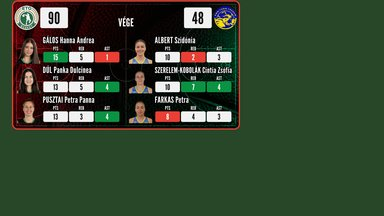
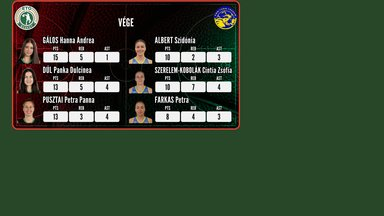
Live three leaders: plain white boxes (no good / bad colouring) and no big scores, the broadcast score bug shows them
Claude-Session: https://claude.ai/code/session_01UoqXCv4cjcXddUm9gUF1QF

diff --git a/graphics/js/templates.js b/graphics/js/templates.js
@@ -650,7 +650,7 @@ const ltRow = n => (n <= 9 ? 64 : 54); // many ticked stats: narrower rows
 const ltScale = n => Math.min(2, 1074 / (LT.head + n * ltRow(n) + LT.pad));
 export const liveTeamSize = keys => { const n = liveTeamKeys(keys).length, S = ltScale(n); return { w: Math.round(LT.w * S), h: Math.round((LT.head + n * ltRow(n) + LT.pad) * S), scale: S }; };
 /** The header shared by the live team comparison and the three leaders: both logos with the live score next to them, the period and the game time left in the middle. */
-function liveHeader(S, x, y, w, op) {
+function liveHeader(S, x, y, w, op, { scores = true } = {}) {
   const u = v => v * S, C = LIVE_TEAM_COLORS;
   const txt = (size, extra) => ({ type: 'text', size: u(size), tracking: 20, color: C.text, opacity: op, adjust: true, align: 'center', ...extra });
   const box = (idv, label, group, bx, by, bw, bh, extra) => ({ id: idv, type: 'framed', label, group, box: [bx + bw / 2, by + bh / 2, bw, bh], fill: C.box, sw: 0, r: u(7), opacity: op, ...extra });
@@ -659,13 +659,15 @@ function liveHeader(S, x, y, w, op) {
   const hy = y + u(22), hh = u(94), sb = u(110), lg = u(96), mid = x + w / 2;
   els.push(
     { id: 'logoH', type: 'image', label: 'Hazai logó', group: 'Fejléc', box: [x + u(58), hy + hh / 2, lg, lg], fit: 'contain', opacity: op, logoOutline: true, maxOutline: 2 },
-    box('scoreH.box', 'Hazai eredmény – doboz', 'Fejléc', x + u(112), hy + u(6), sb, hh - u(12)),
-    txt(66, { id: 'scoreH', label: 'Hazai eredmény', group: 'Fejléc', x: x + u(112) + sb / 2, y: hy + hh / 2 + 0.3715 * u(66), color: C.digit, maxWidth: sb - u(10), minScale: 0.6 }),
     txt(24, { id: 'clock', label: 'Negyed', group: 'Fejléc', x: mid, y: hy + hh / 2 - u(8), maxWidth: u(110), minScale: 0.6 }),
     txt(44, { id: 'time', label: 'Játékidő', group: 'Fejléc', x: mid, y: hy + hh / 2 + u(34), maxWidth: u(110), minScale: 0.6 }),
+    { id: 'logoA', type: 'image', label: 'Vendég logó', group: 'Fejléc', box: [x + w - u(58), hy + hh / 2, lg, lg], fit: 'contain', opacity: op, logoOutline: true, maxOutline: 2 },
+  );
+  if (scores) els.push(
+    box('scoreH.box', 'Hazai eredmény – doboz', 'Fejléc', x + u(112), hy + u(6), sb, hh - u(12)),
+    txt(66, { id: 'scoreH', label: 'Hazai eredmény', group: 'Fejléc', x: x + u(112) + sb / 2, y: hy + hh / 2 + 0.3715 * u(66), color: C.digit, maxWidth: sb - u(10), minScale: 0.6 }),
     box('scoreA.box', 'Vendég eredmény – doboz', 'Fejléc', x + w - u(112) - sb, hy + u(6), sb, hh - u(12)),
     txt(66, { id: 'scoreA', label: 'Vendég eredmény', group: 'Fejléc', x: x + w - u(112) - sb / 2, y: hy + hh / 2 + 0.3715 * u(66), color: C.digit, maxWidth: sb - u(10), minScale: 0.6 }),
-    { id: 'logoA', type: 'image', label: 'Vendég logó', group: 'Fejléc', box: [x + w - u(58), hy + hh / 2, lg, lg], fit: 'contain', opacity: op, logoOutline: true, maxOutline: 2 },
   );
   return els;
 }
@@ -709,7 +711,7 @@ function liveLeaderTpl(id, league, keysIn) {
   const cells = liveLeaderCells(keysIn), { w, h, scale: S } = liveLeaderSize(), x = 60, y = 2, C = LIVE_TEAM_COLORS, op = 0.9882, u = v => v * S;
   const txt = (size, extra) => ({ type: 'text', size: u(size), tracking: 20, color: C.text, opacity: op, adjust: true, align: 'center', ...extra });
   const box = (idv, label, group, bx, by, bw, bh) => ({ id: idv, type: 'framed', label, group, box: [bx + bw / 2, by + bh / 2, bw, bh], fill: C.box, sw: 0, r: u(6), opacity: op });
-  const els = [panelFrame(league, x, y, w, h), ...liveHeader(S, x, y, w, op)];
+  const els = [panelFrame(league, x, y, w, h), ...liveHeader(S, x, y, w, op, { scores: false })]; // no big scores here: the broadcast's own score bug shows them (owner 2026-11-25)
   for (const [side, tag, col] of [['home', 'h', 0], ['away', 'a', 1]]) {
     const x0 = x + u(LL.pad) + col * u(LL.cw + LL.gap);
     for (let i = 0; i < 3; i++) {

diff --git a/graphics/js/binders.js b/graphics/js/binders.js
@@ -695,34 +695,21 @@ export function bindLiveTeam(store, lg, game, sel = {}) {
 }
 
 // ───────────────────────── live three leaders (Élő három vezető) ─────────────────────────
-/** The value a stat is compared by (higher = better, except for the stats in LOW): null when there is nothing to compare. */
-const LEADER_LOW = new Set(['tov', 'pf']);
-const leaderNum = (p, key) => {
-  const st = p.stat, pct = (m, a) => (a > 0 ? m / a : null);
-  switch (key) {
-    case 'pts': return st.pts; case 'reb': return p.reb; case 'ast': return st.ast; case 'stl': return st.stl; case 'blk': return st.blk; case 'tov': return st.tov; case 'pf': return st.pf; case 'eff': return p.eff;
-    case 'min': return p.seconds ?? null;
-    case 'fg': return pct(st.fg2m + st.fg3m, st.fg2a + st.fg3a); case 'fg2': return pct(st.fg2m, st.fg2a); case 'fg3': return pct(st.fg3m, st.fg3a); case 'ft': return pct(st.ftm, st.fta);
-    default: return null;
-  }
-};
 export function bindLiveLeaders(store, lg, game, sel = {}, photoIds = new Set()) {
   const v = liveHeaderValues(store, lg, game, sel);
+  delete v.scoreH; delete v.scoreA; // the broadcast's own score bug shows the score (owner 2026-11-25)
   if (!game) return v;
   const src = LIVE_SRC + (sel.fetchedAt ? ` – frissítve: ${sel.fetchedAt}` : ''), cells = liveLeaderCells(sel.leaderStats), S = liveLeaderSize().scale, big = 32 * S, small = Math.round(big * 2 / 3 * 100) / 100;
   const sides = { home: topByEff(game, 'home', 3), away: topByEff(game, 'away', 3) }, tids = {};
   for (const side of ['home', 'away']) tids[side] = clubIdStrict(lg, game.teams[side].short) || clubIdStrict(lg, game.teams[side].name) || null;
   const all = [...sides.home.map((p, i) => ({ p, i, side: 'home' })), ...sides.away.map((p, i) => ({ p, i, side: 'away' }))];
-  cells.forEach((c, j) => { // best / worst of the (up to) six shown players, per ticked stat
-    const nums = all.map(a => leaderNum(a.p, c.key)).filter(n => n !== null), best = LEADER_LOW.has(c.key) ? Math.min(...nums) : Math.max(...nums), worst = LEADER_LOW.has(c.key) ? Math.max(...nums) : Math.min(...nums), mark = nums.length >= 2 && best !== worst;
+  cells.forEach((c, j) => { // plain white boxes: no good / bad colouring (best of six players is not a meaningful judgement here, owner 2026-11-25)
     for (const side of ['home', 'away']) for (let i = 0; i < 3; i++) {
       const id = `${side === 'home' ? 'h' : 'a'}${i}`, p = sides[side][i];
       v[`${id}.c${j}.label`] = { text: p ? c.label : '', source: 'Fix felirat (átírható)' };
       if (!p) { v[`${id}.c${j}.value`] = { text: '', source: 'Nincs ennyi pályára lépett játékos' }; v[`${id}.c${j}.box`] = { fill: '', source: '' }; continue; }
-      const [value, pct] = liveCellFns(p)[c.key](), n = leaderNum(p, c.key), tag = !mark || n === null ? null : n === best ? 'best' : n === worst ? 'worst' : null;
-      const f = field(value, `${src} – ${c.label}`), t = pct ? ` (${pct})` : '';
-      v[`${id}.c${j}.value`] = { ...(c.shoot && value && pct ? { ...f, text: value + t, runs: [{ text: value }, { text: t, size: small, dy: -(big - small) * 0.3715 }] } : f), color: tag ? '#ffffff' : LIVE_TEAM_COLORS.digit };
-      v[`${id}.c${j}.box`] = { fill: tag === 'best' ? LIVE_TEAM_COLORS.better : tag === 'worst' ? LIVE_TEAM_COLORS.worse : LIVE_TEAM_COLORS.box, source: 'A hat játékos közül a legjobb zöld, a legrosszabb piros' };
+      const [value, pct] = liveCellFns(p)[c.key](), f = field(value, `${src} – ${c.label}`), t = pct ? ` (${pct})` : '';
+      v[`${id}.c${j}.value`] = c.shoot && value && pct ? { ...f, text: value + t, runs: [{ text: value }, { text: t, size: small, dy: -(big - small) * 0.3715 }] } : f;
     }
   });
   for (const side of ['home', 'away']) for (let i = 0; i < 3; i++) {

diff --git a/MANIFEST.md b/MANIFEST.md
@@ -49,7 +49,7 @@ Status legend: **LOCKED** = agreed & finished · **REVIEW** = delivered, waiting
 | Következik | REVIEW | |
 | Élő statisztika (játékos) (livestat) | REVIEW | **new 2026-11-23, reshaped 2026-11-24 per owner (height version B chosen): a strip 606×150 (shooting 606×140, full row 1032×130), photo left, name centred over the figures, club logo 100 px at the right end, white name / labels and gold figures, no status line; centred in the gap left of the score bug (x 600 for ETO/Falco = large bug, x 712 for all others), level with its midline, or top-left on request:** compact court-frame panel: official roster photo, name (Hungarian "SURNAME Given" / foreign "Given SURNAME" from the Hunbasket roster), `#number · score · period`, club logo, and stats of the chosen live-game player; variants **Alap** (PTS·REB·AST), **Dobások** (2P·3P·BT with %), **Teljes sor** (PERC·PTS·REB·AST·STL·BLK·TOV·FAULT·EFF). Data = live boxscore (section 5b); loaded by link/code (auto refresh 5 s via the local relay) or pasted; every value carries the freshness in its source label; nothing is invented. Not in the ZIP package (it is a live insert). |
 | Élő statisztika (csapat-összevetés) (liveteam) | REVIEW | **new 2026-11-24:** look of the broadcaster's score bug, logos + scores, ticked stats, better value green, worse red; see 5b and DESIGN-SYSTEM. |
-| Élő statisztika (három vezető) (liveleaders) | REVIEW | **new 2026-11-25 (owner: "I will decide how I like it when you are finished"):** the three best-VAL players of each team (VAL only picks them, it is not shown unless ticked, then like any other stat), photo + name + ticked stats in white boxes, best of the six green / worst red; header and frame as the team comparison; see 5b. |
+| Élő statisztika (három vezető) (liveleaders) | REVIEW | **new 2026-11-25 (owner: "I will decide how I like it when you are finished"):** the three best-VAL players of each team (VAL only picks them, it is not shown unless ticked, then like any other stat), photo + name + ticked stats in plain white boxes (no good / bad colouring and no big scores: owner 2026-11-25, the broadcast's score bug shows the score); logos + period / time header and frame as the team comparison; see 5b. |
 | Vezetőedző nyilatkozata (coach) | REVIEW | **new 2026-11-24:** from the owner's PSD "Hegedűs ITW BEAC előtt - 0924" (women; men = same layout, men's outline colour): large court frame, coach photo upload (cut-out, background removal), **quote** typed / pasted (small caps like the PSD **or** plain capitals, selectable; shrinks to fit 13+ lines), name + club logo from the Hunbasket head coach, subtitle suggestion from the next game, Hunbasket · Tippmix · Play by Play strip. Text engine: `graphics/js/paragraph.js` (`paragraph` text elements: paragraphs wrapped on their own, small caps, fit to height). Not in the ZIP package (needs a photo + text). |
 | Játékvezetők | REVIEW | men's PSD uses Satoshi, but the font rule is League Gothic only (owner's decision: everything in League Gothic) – rendered in League Gothic |
 
@@ -84,7 +84,7 @@ Goal: during timeouts / quarter breaks pick a player of the running game and sho
 - **Source:** the MKOSZ netcasting page `https://netcasting4.webpont.com/?whun_<id>` (`whun_` = women, `hun_` = men, `hunu18_` etc. = junior games; verified 2026-11-24 on a live U19 game: the feed parses, the points match the score; junior clubs/players are not in the Hunbasket NB I/A data, so no logo/photo and the feed's own name spelling, e.g. "Gerg?" for Gergő – a quirk of the feed itself). It loads `storage/full<gamecode>.html` (whole game) / `storage/last<gamecode>.html` (latest events), refreshed about every 5 s. Format: home-made `key|value#key|value` text, `%` between array items; three string replaces turn it into JSON (`graphics/js/live.js` `decodeFeed`). Contains roster (`players.home/away`: Hunbasket player code, name, number, photo URL), `i` (teams, score `hp`/`vp`, arena, referees, date) and the play-by-play `f` (codes: 1000 made shot, 1001 miss, 1002 def reb, 1003 off reb, 1004 steal, 1005 turnover, 1006 foul drawn, 1007 foul, 1008 assist, 1009 block, 1010 block against, 1020 technical, 1011 substitution, 1100 15 s tick, 1101 period end; `gt` = elapsed game seconds). Shot type 3 = three, 4 = free throw, 1/2/5 = two. **Player codes are Hunbasket player ids**, so `graphics/players/<id>.webp` fits directly.
 - **Parser:** `graphics/js/live.js` (counts the stats like the netcasting page; counted points equal the official score), tests `tests/live.test.mjs` on a saved finished game (`tests/fixtures/live/whun_135563.full.txt`, ETO Basket – CEKK Cegléd 90–48).
 - **Access:** the feed server sends **no CORS header** (a browser on GitHub Pages cannot read it) and **blocks cloud networks**: a Supabase Edge Function was tried and cannot reach it (IPv6 reset, IPv4 port 443 dropped, port 80 only redirects) – do not retry that route (the two stub functions `live-box` / `live-diag` in the Supabase project can be deleted in its dashboard). **Working route:** `python3 tools/serve.py` serves the studio and relays the feed at `/live?game=whun_135563&kind=full` (the owner's own connection is accepted). The sandbox reaches the feed only through the allowed host `netcasting4.webpont.com` of the environment.
-- **Built:** the graphic `livestat-<men|women>` (see section 3). **Tickable stats (2026-11-24, owner request):** the commentator ticks the stats (`LIVE_STATS` in templates.js: PERC PTS REB AST STL BLK TOV FAULT EFF FG 2P 3P BT; state `sel.live.stats`; the old basic/shooting/full sets are presets), strip width/fonts follow the count (`liveDims`, max 1040 px); shooting cells show `made/att (xx%)`, percentage at 2/3 size, vertically centred (runs, dy = -(big-small)·0.3715). **Team comparison `liveteam-<men|women>` (built 2026-11-24, REVIEW; owner round 2: ≈2x bigger via scale S = min(2, 1074/height), columns and scores closer to the middle, top-left like Csapatok összevetése, no dark strips, period + time left in the header, VÉGE only when finished):** look of the broadcaster's own score bug (owner's screenshots of the feed, NOT the netcasting web page): dark glossy bar, logos + white score boxes, period label, one row per ticked stat with white value boxes straight on the court (no dark strips), the better value green / the worse red (lower is better for TOV / FAULT); stats `LIVE_TEAM_STATS` (FG 2P 3P BT REB TÁMADÓ REB AST STL BLK TOV FAULT EFF), state `sel.live.teamStats`; `live.js` now also returns `quarters` (points per period, sum = score), `foulsByPeriod`, team `reb` / `eff`. **Three leaders `liveleaders-<men|women>` (built 2026-11-25, REVIEW):** `topByEff` in live.js picks the three best VAL per side; default stats PTS REB AST, all `LIVE_STATS` tickable (state `sel.live.leaderStats`), VAL never the headline; the layout (two columns, photo left, label over a white box) is a first guess the owner will judge. Open ideas: OBS browser-source page that refreshes by itself, team-level insert (team fouls, quarter scores), own photo upload per player. Coach interview graphic (owner will add a PSD prototype): data from Hunbasket preview links / BB1 (`bball1.hu`) preview article, always a photo upload.
+- **Built:** the graphic `livestat-<men|women>` (see section 3). **Tickable stats (2026-11-24, owner request):** the commentator ticks the stats (`LIVE_STATS` in templates.js: PERC PTS REB AST STL BLK TOV FAULT EFF FG 2P 3P BT; state `sel.live.stats`; the old basic/shooting/full sets are presets), strip width/fonts follow the count (`liveDims`, max 1040 px); shooting cells show `made/att (xx%)`, percentage at 2/3 size, vertically centred (runs, dy = -(big-small)·0.3715). **Team comparison `liveteam-<men|women>` (built 2026-11-24, REVIEW; owner round 2: ≈2x bigger via scale S = min(2, 1074/height), columns and scores closer to the middle, top-left like Csapatok összevetése, no dark strips, period + time left in the header, VÉGE only when finished):** look of the broadcaster's own score bug (owner's screenshots of the feed, NOT the netcasting web page): dark glossy bar, logos + white score boxes, period label, one row per ticked stat with white value boxes straight on the court (no dark strips), the better value green / the worse red (lower is better for TOV / FAULT); stats `LIVE_TEAM_STATS` (FG 2P 3P BT REB TÁMADÓ REB AST STL BLK TOV FAULT EFF), state `sel.live.teamStats`; `live.js` now also returns `quarters` (points per period, sum = score), `foulsByPeriod`, team `reb` / `eff`. **Three leaders `liveleaders-<men|women>` (built 2026-11-25, REVIEW):** `topByEff` in live.js picks the three best VAL per side; default stats PTS REB AST, all `LIVE_STATS` tickable (state `sel.live.leaderStats`), VAL never the headline; the layout (two columns, photo left, label over a white box) is a first guess the owner will judge. Owner 2026-11-25: no green / red here and no big scores (if scores come back: in the middle of the three-player rows on each side). Open ideas: OBS browser-source page that refreshes by itself, team-level insert (team fouls, quarter scores), own photo upload per player. Coach interview graphic (owner will add a PSD prototype): data from Hunbasket preview links / BB1 (`bball1.hu`) preview article, always a photo upload.
 
 ## 5c. Coach interview graphic (built 2026-11-24)
 Built from `BROADCAST GRAPHICS/Hegedűs ITW BEAC előtt - 0924.psd` (read-only; do not run `tools/psd_extract.py` without `--only <id>`): geometry and type in `templates.js` (`coachTpl`), text layout in `paragraph.js` + `drawParagraph` in `engine.js`, binder `bindCoach`, studio panel in `app.js` (team, opponent for the subtitle, quote textarea, look, photo upload + background removal). Owner decisions: **both quote looks** (small caps / plain capitals) and **both leagues**. A render with the PSD's own text, photo and a Hunbasket name matches the PSD (same 13 lines, same positions).

diff --git a/DESIGN-SYSTEM.md b/DESIGN-SYSTEM.md
@@ -32,7 +32,7 @@ Text outlines: 3–4 px (PSD stroke), club logos carry the white outline stored 
 - **Broadcast score bug zone (LOCKED, owner 2026-11-24):** the live feed we commentate on carries the broadcaster's score bug in the **bottom-right** corner, in two versions: the **large** one (x 1213–1887 / y 931–1045, 115 px tall, with the credit line below it ≈ 139 px together) is used on the broadcasts of **ETO Basket and Falco only** – the difference is the **origin of the feed** (they produce with hand cameras, everyone else with the automated production), not the venue – every other partner has the **small** one (x 1425–1874 / y 958–1034, 77 px tall, with the credit line below it down to ≈ 1051 = ≈ 93 px together). Our graphics must not cover it: keep-out zones `BUG.large` x ≥ 1200, y ≥ 925 and `BUG.small` x ≥ 1410, y ≥ 945 (`templates.js`; the large zone contains the small one, so it is used when the host is unknown). The studio picks the size from the host club of the chosen match / live game (setting *Eredményjelző*: automatikus / nagy / kicsi / nincs) and **fits every graphic out of the zone automatically** (`safeFit` in `layout.js`, applied by the engine through the global transform): the smallest visual change wins – shift up, shift left, or a slight shrink about the panel's top-left corner (currently ≤ 6.7 %, most graphics ≤ 2.5 % or untouched). The preview can show the zone as a hatched guide (never exported). Graphics that do not reach the zone (roster, team statistics, form, head to head, …) are not changed.
 - **Live player insert (strip, owner 2026-11-24, height version "B"):** basic 606 × 150 px, shooting 606 × 140, full row 1032 × 130; court frame with 3 px outline. Left to right: official roster photo (120 px column), the **name** (surname in capitals) **centred on the middle of the figures row** with the figures and their category labels under it, and the **club logo (100 px)** centred in the right column. **Colours:** name and category labels share one colour (white `#ffffff`), the numbers are **gold `#ffc929`** (`LIVE_COLORS`); all with a black outline. **No status line under the name** (the broadcast's own score bug shows score and period). Placement: on the score bug's level and centred in the gap between the left edge of the picture and the score bug: **x-centre 600 on ETO Basket / Falco broadcasts (large bug), x-centre 712 everywhere else (small bug)**, y-centre ≈ 988 / 995 (kept 20 px inside the picture, so about 985 for the 150 px strip); alternative: top-left. Height can not simply be doubled: centred on the small bug's midline (995) a strip taller than ≈ 130 px would leave the picture.
 - **Live team comparison (`liveteam`, owner 2026-11-24, REVIEW):** copies the broadcaster's score bug (screenshots of the feed): the standard court frame (PlayByPlay red-black-green court + league outline, as all panels) with no strips: the court shows between the value boxes, value / score boxes `#f4f4f4` with near-black digits (radius 7), the better value's box green `#0b9444`, the worse red `#ec4036` (white digits; a tie stays white), white captions; base layout 560 px wide (columns and the two score boxes close to the middle), header 138 px (logos 96, score boxes 110), rows 64 px (54 above 9 stats), then everything scaled by S = min(2, 1074 / height): about 2x for up to 6 stats, so the panel is ≈ 1100 px wide and ends clear of both score bug zones; placed top-left like *Csapatok összevetése* (x 60, y 2); the middle of the header shows the period and the game time left ("2. NEGYED / 4:32"), "VÉGE" only when the game is over; shooting values `made/att (xx%)` with the percentage at 2/3 size, vertically centred. League Gothic only.
-- **Live three leaders (`liveleaders`, 2026-11-25, REVIEW, first version – the owner decides the look):** court frame + the header of the team comparison; two columns (home | away), three rows each (best VAL first): official photo (92 base px), name (white, black outline), under it the ticked stats as a small white label over a white value box (digits black; the best value of the six players in the green `#0b9444` box, the worst in red `#ec4036`, white digits); shooting stats `made/att (xx%)` with the percentage at 2/3 size. VAL only chooses the players; as a stat it is the same size as the others. Base 904 px wide, scaled to ≤ 1140 px so it ends clear of the large score bug zone.
+- **Live three leaders (`liveleaders`, 2026-11-25, REVIEW, first version – the owner decides the look):** court frame + a header with the two club logos in the top corners and the period / game time in the middle (the team comparison's header without the score boxes); two columns (home | away), three rows each (best VAL first): official photo (92 base px), name (white, black outline), under it the ticked stats as a small white label over a white value box (digits black; all boxes plain white: no green / red and no big scores, the broadcast's score bug shows the score); shooting stats `made/att (xx%)` with the percentage at 2/3 size. VAL only chooses the players; as a stat it is the same size as the others. Base 904 px wide, scaled to ≤ 1140 px so it ends clear of the large score bug zone.
 - **Coach interview graphic (owner's PSD "Hegedűs ITW BEAC előtt - 0924", built 2026-11-24):** large court frame (45,14–1455,944, stroke 8 px, radius 25, outline colour per league); the coach's cut-out photo on the left (570 × 895 box, standing on the frame's bottom edge, always an upload); the **quote** on the right (League Gothic 45.8 px, squeezed to 83 % width exactly like the PSD's 1.786 × 2.142 stretch, 58.3 px line spacing, tracking 10, white with a 4 px black outline, 963 px wide, up to 13 lines – longer text **shrinks to fit**, down to 45 %); **small caps** (lower-case letters as capitals at 80 %, as in the PSD) or plain capitals, selectable; the **name** in capitals (108 px, black `#010101` with a 4 px **white** outline, baseline 873.25), the subtitle in capitals (45.8 px, white, 3 px black outline, baseline 927), the club logo (124 px) bottom right, and the Hunbasket · Tippmix · **Play by Play** strip under the frame (`templates/coach/strip.png`, taken from the PSD). Name and logo come from the Hunbasket team page (head coach), the subtitle is a suggestion from the next game ("<ellenfél> elleni mérkőzés előtt"), the quote is typed / pasted. Fitted out of the score bug zone like every big graphic.
 - **Player cards (photo roster):** photo, jersey number top-left, flag top-right on the number's centre line, surname in capitals, position · height line in red; name order rule in MANIFEST.md.
 - **Key players:** values and ranks mirrored around the label column, rank rows on the value baseline, photo (or club logo) behind the numbers.

diff --git a/graphics/README.md b/graphics/README.md
@@ -236,4 +236,4 @@ A logósor (Hunbasket · Tippmix · Play by Play) fix, a PSD-ből.
 Az adás saját eredményjelzőjének (a sötét, fényes sáv, fehér pontdobozokkal) stílusában: felül a **két csapat logója** és mellettük a **fehér dobozban az állás**, középen a **negyed és a hátralévő játékidő** („2. NEGYED / 4:32”; **VÉGE** csak a lefújt meccsnél – az idő az utolsó esemény ideje, néhány másodperc késés lehet), alatta **soronként egy pipálható statisztika (közvetlenül a pályán, sötét sáv nélkül)**: bal oldalon a hazai, jobb oldalon a vendég értéke fehér dobozban, középen a név. A **jobb érték zöld, a rosszabb piros** dobozt kap, fehér számokkal (egyenlőnél fehér marad; az eladott labdánál és a faultnál a kevesebb a jobb). A dobásoknál (FG, 2P, 3P, BT) *betalált/kísérlet* áll nagyban, zárójelben a százalék a 2/3-os méretben, függőlegesen középen. Pipálható: FG, 2P, 3P, BT, REB, TÁMADÓ REB, AST, STL, BLK, TOV, FAULT, EFF (csapat-EFF: a játékosok és a csapatnak írt lepattanók / eladott labdák összege). A grafika kb. **kétszer akkora**, mint az első változat (legfeljebb 6 statisztikánál; több pipánál a sorok összébb húzódnak, hogy beférjen a képbe), az oszlopok és az eredmények közel vannak a középhez. Ugyanaz az élő meccs-kód és az Automatikus frissítés, mint a játékos-sávnál; a panel ugyanott áll, ahol a **Csapatok összevetése** (bal felül), így nem takarja az eredményjelzőt.
 
 ## Élő statisztika (három vezető)
-Mindkét csapatból **a három legjobb VAL-értékű játékos** jelenik meg (a VAL csak a kiválasztás szabálya, **nem a főszám**; ha kipipálod, ugyanakkora, mint a többi statisztika). Fejléc és keret ugyanaz, mint a csapat-összevetésnél (logók, élő állás, negyed és hátralévő idő). Bal oldalon a hazai, jobb oldalon a vendég csapat három játékosa, soronként: a hivatalos fotó, a név, alatta a **pipált statisztikák** felirattal és fehér értékdobozzal (alapból PTS · REB · AST; pipálható: PERC, PTS, REB, AST, STL, BLK, TOV, FAULT, EFF, FG, 2P, 3P, BT). A hat játékos közül statisztikánként a **legjobb érték zöld, a legrosszabb piros** (eladott labdánál és faultnál a kevesebb a jobb). A dobásoknál *betalált/kísérlet (százalék)*, a százalék 2/3 méretben. Ugyanaz a meccs-kód és az Automatikus frissítés, mint a többi élő grafikánál. Ez az első változat: a végleges kinézetet te döntöd el.
+Mindkét csapatból **a három legjobb VAL-értékű játékos** jelenik meg (a VAL csak a kiválasztás szabálya, **nem a főszám**; ha kipipálod, ugyanakkora, mint a többi statisztika). A keret ugyanaz, mint a csapat-összevetésnél; a fejlécben a két csapat logója és középen a negyed / hátralévő idő áll, **nagy eredmény nincs** (az adás saját eredményjelzője mutatja). Bal oldalon a hazai, jobb oldalon a vendég csapat három játékosa, soronként: a hivatalos fotó, a név, alatta a **pipált statisztikák** felirattal és fehér értékdobozzal (alapból PTS · REB · AST; pipálható: PERC, PTS, REB, AST, STL, BLK, TOV, FAULT, EFF, FG, 2P, 3P, BT). Az értékdobozok **mind fehérek** (nincs jó / rossz színezés). A dobásoknál *betalált/kísérlet (százalék)*, a százalék 2/3 méretben. Ugyanaz a meccs-kód és az Automatikus frissítés, mint a többi élő grafikánál. Ez az első változat: a végleges kinézetet te döntöd el.
